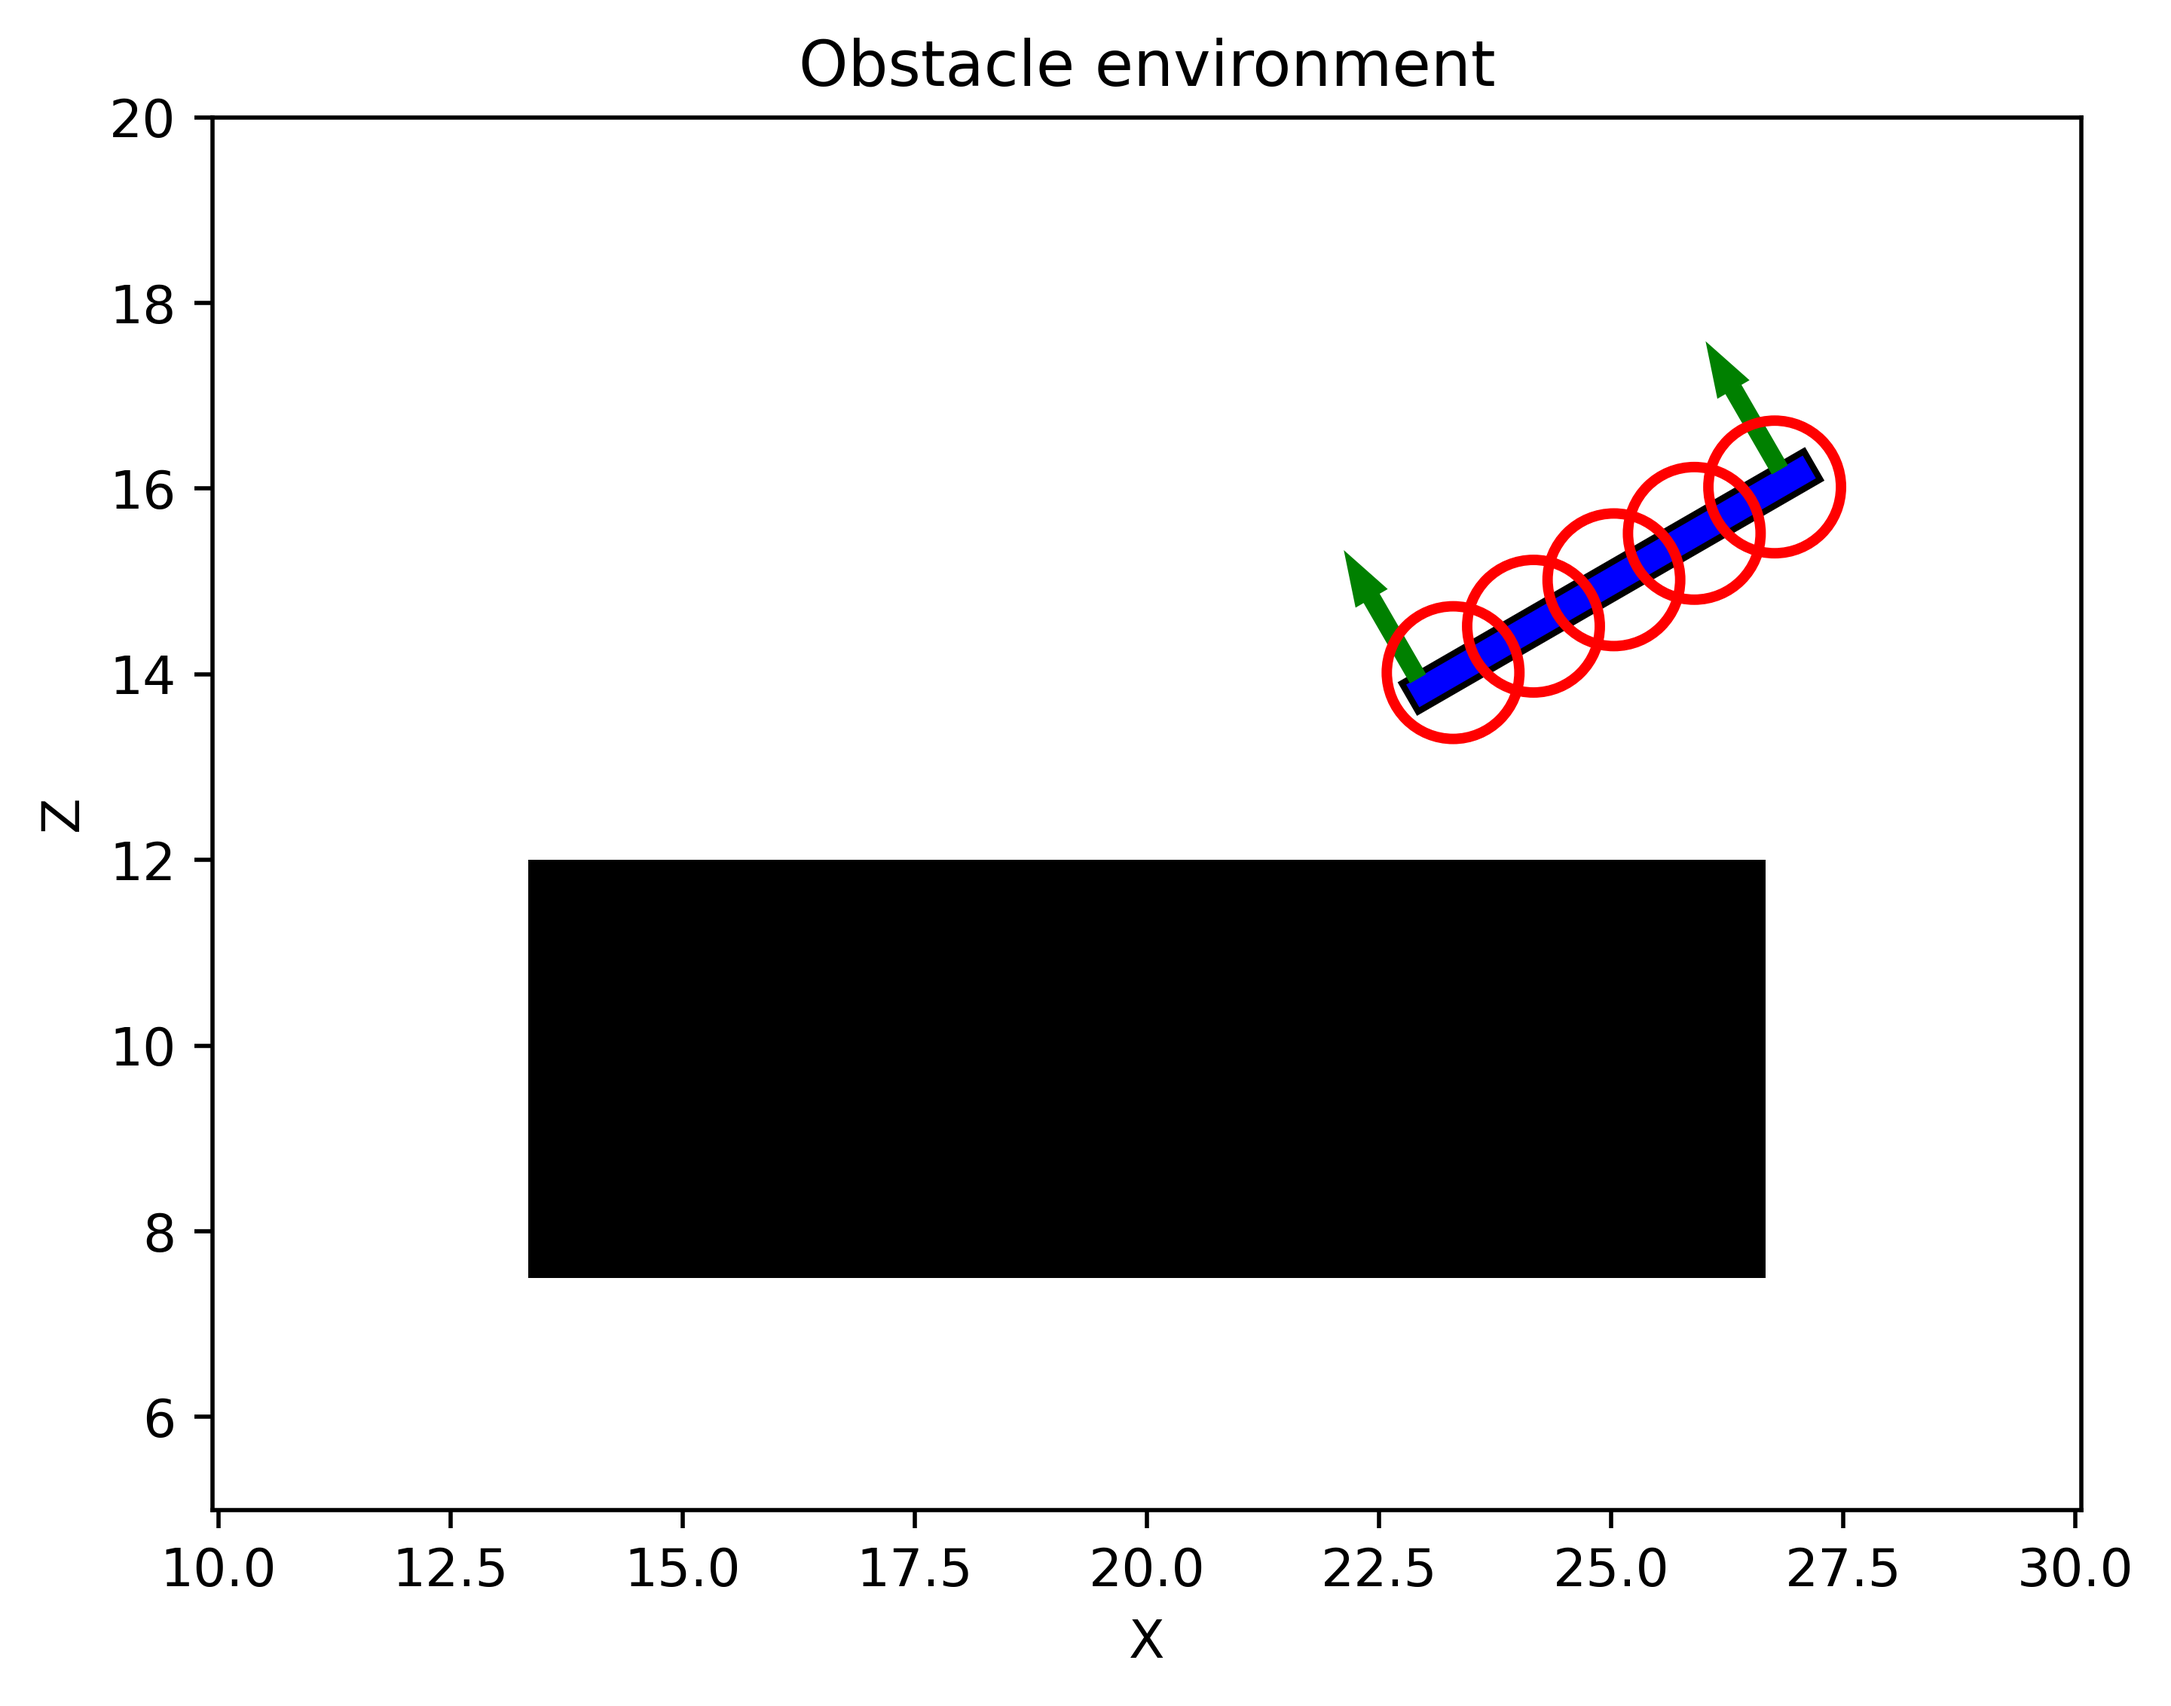
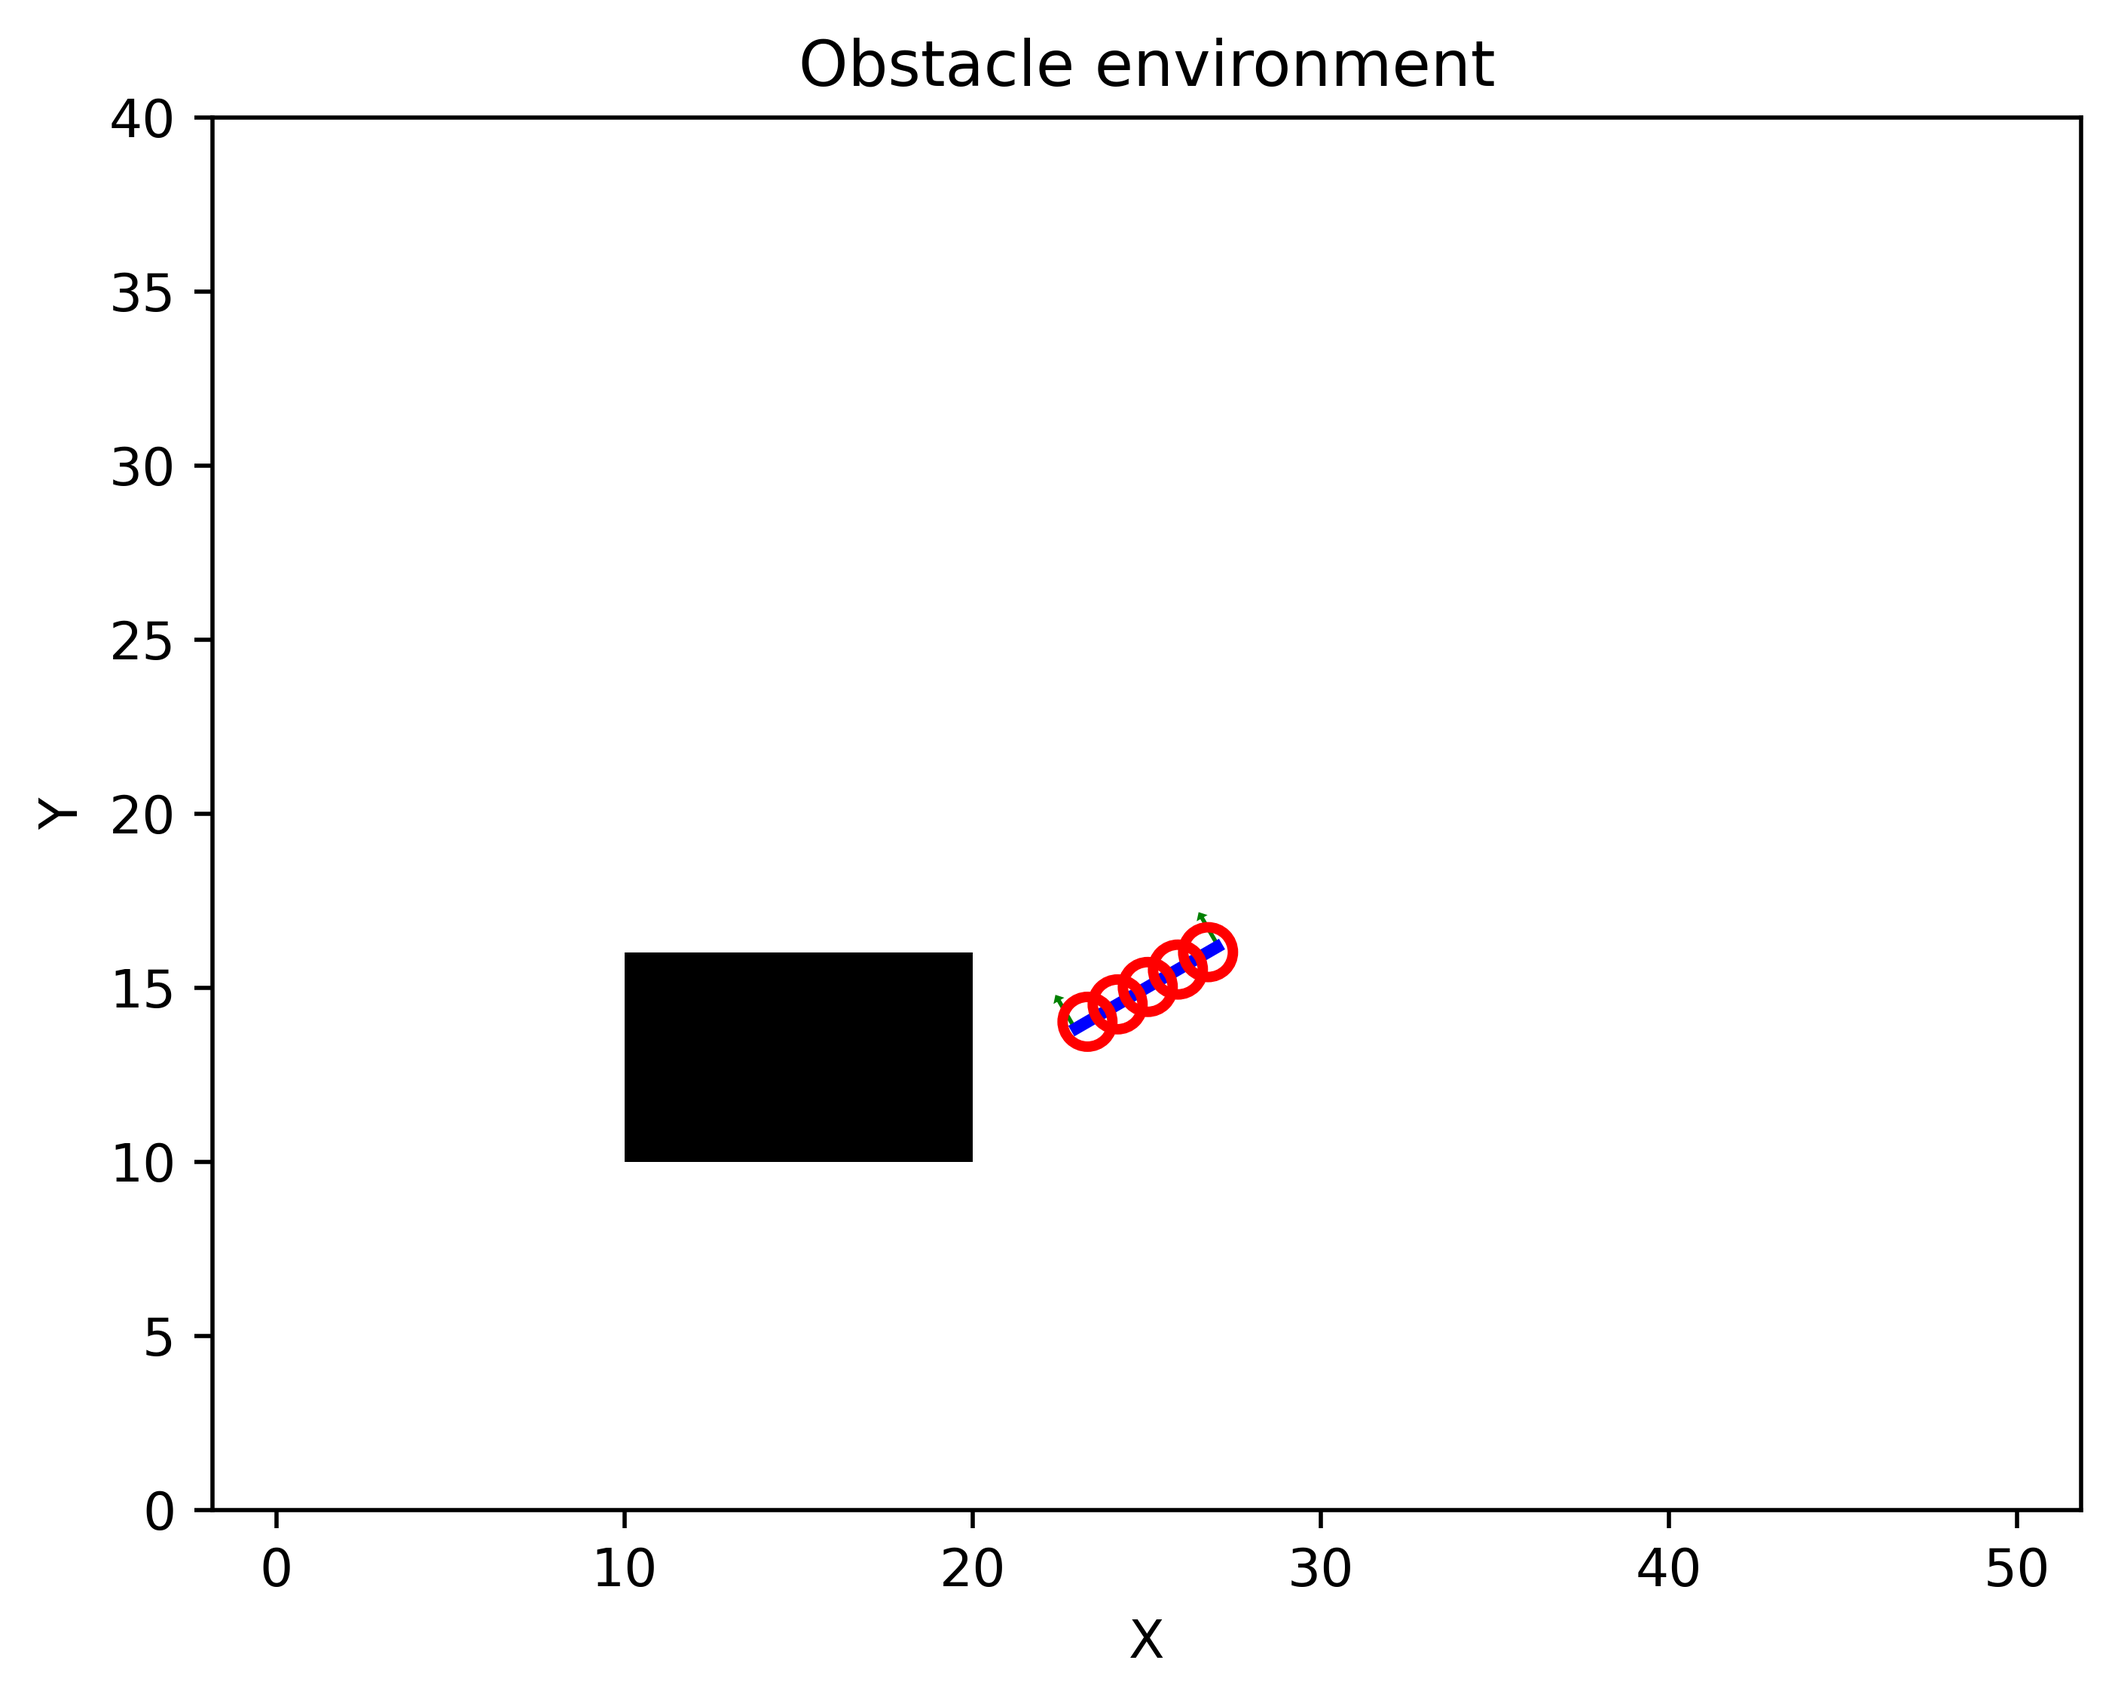
dev

diff --git a/example/draw_planar_quad_sdf.py b/example/draw_planar_quad_sdf.py
@@ -12,6 +12,7 @@ scripts_dir =os.path.abspath(os.path.join(py_dir, 'scripts'))
 sys.path.append(scripts_dir)
 
 from generate_sdf_2d import * 
+from matplotlib.patches import Rectangle, Arrow
 
 # Defines the forward kinematics for collision-checking balls and their gradients to the states.  
 def vec_balls(x, L, n_balls, radius):
@@ -33,66 +34,58 @@ def vec_balls(x, L, n_balls, radius):
     
     return v_pts, v_g_states, v_radius
 
-def draw_quad_balls(x, L, H, fig, ax, rgb='b'):
-    
+def compute_pqud_patches(x, L, H, patch_color='b'):
     center_location = x[0:2]
     theta = x[2]
-    n_balls = 5
-    radius = L/7.0
-    v_pts, _, v_radius = vec_balls(x, L, n_balls, radius)
     
     center1 = center_location[0]
     center2 = center_location[1]
-    R = np.array([[np.cos(theta), -np.sin(theta)], [np.sin(theta), np.cos(theta)]])
-    X = np.array([-L/2, L/2, L/2, -L/2])
-    Y = np.array([-H/2, -H/2, H/2, H/2])
+    R = np.array([[np.cos(theta), -np.sin(theta)], [np.sin(theta), np.cos(theta)]], dtype=np.float64)
+    X = np.array([-L/2, L/2, L/2, -L/2], dtype=np.float64)
+    Y = np.array([-H/2, -H/2, H/2, H/2], dtype=np.float64)
 
-    T = np.zeros((2, 4))
+    T = np.zeros((2, 4), dtype=np.float64)
     for i in range(4):
         T[:, i] = np.dot(R, np.array([X[i], Y[i]]))
 
     x_lower_left = center1 + T[0, 0]
-    x_lower_right = center1 + T[0, 1]
-    x_upper_right = center1 + T[0, 2]
-    x_upper_left = center1 + T[0, 3]
     y_lower_left = center2 + T[1, 0]
-    y_lower_right = center2 + T[1, 1]
-    y_upper_right = center2 + T[1, 2]
-    y_upper_left = center2 + T[1, 3]
-
-    x_coor = [x_lower_left, x_lower_right, x_upper_right, x_upper_left]
-    y_coor = [y_lower_left, y_lower_right, y_upper_right, y_upper_left]
-
-    # fig, ax = plt.subplots()
-    ax.fill(x_coor, y_coor, edgecolor='k', facecolor='b', linewidth=1.2)
+    rect = Rectangle((x_lower_left, y_lower_left), L, H, angle=theta/3.14*180, edgecolor='none', facecolor=patch_color)
     
-    arrow_width = 0.2
-    arrow_properties = dict(facecolor='green', edgecolor='none', width=arrow_width, head_width=0.4)
-
+    arrow_width = 0.1
     # Plot 2 arrows representing the inputs
     # left arrow
     l_arrow_x = center1 - (L-arrow_width)/2*np.cos(theta)
     l_arrow_z = center2 - (L-arrow_width)/2*np.sin(theta) + H/2*np.cos(theta)
-    ax.arrow(l_arrow_x, l_arrow_z, -np.sin(theta), np.cos(theta), **arrow_properties)
+    l_arrow = Arrow(l_arrow_x, l_arrow_z, -np.sin(theta), np.cos(theta), width=0.6, edgecolor='none', facecolor='green')
     
     # right arrow
-    l_arrow_x = center1 + (L-4*arrow_width)/2*np.cos(theta)
-    l_arrow_z = center2 + (L-4*arrow_width)/2*np.sin(theta) + H/2*np.cos(theta)
-    ax.arrow(l_arrow_x, l_arrow_z, -np.sin(theta), np.cos(theta), **arrow_properties)
+    r_arrow_x = center1 + (L-4*arrow_width)/2*np.cos(theta)
+    r_arrow_z = center2 + (L-4*arrow_width)/2*np.sin(theta) + H/2*np.cos(theta)
+    r_arrow = Arrow(r_arrow_x, r_arrow_z, -np.sin(theta), np.cos(theta), width=0.6, edgecolor='none', facecolor='green')
     
-    plt.axis('equal')
+    n_balls = 5
+    radius = L/7.0
+    v_pts, _, v_radius = vec_balls(x, L, n_balls, radius)
+    v_circles = []
     for i in range(n_balls):
-        circle = plt.Circle(v_pts[i], v_radius[i], edgecolor='r', facecolor='none', linewidth=2)
-        ax.add_patch(circle)
+        v_circles.append(plt.Circle(v_pts[i], v_radius[i], edgecolor='r', facecolor='none', linewidth=2))
         
-    plt.xlim([10.0, 30.0])
-    plt.ylim([5.0, 20.0])
+    return rect, l_arrow, r_arrow, v_circles
+
+# @njit
+def draw_quad_balls(x, L, H, fig, ax, draw_ball=True, patch_color='b'):
+    rect, l_arrow, r_arrow, v_circles = compute_pqud_patches(x, L, H, patch_color)
     
-    plt.xlabel('X')
-    plt.ylabel('Z')
+    ax.add_patch(l_arrow)
+    ax.add_patch(r_arrow)
+    ax.add_patch(rect)
     
-    plt.show()
-    
+    if draw_ball:
+        for i in range(len(v_circles)):
+            ax.add_patch(v_circles[i])
+            plt.axis('equal')
+            
     return fig, ax
     
 if __name__ == '__main__':
@@ -101,7 +94,9 @@ if __name__ == '__main__':
     state = np.array([25.0, 15.0, np.pi/6, 0.0, 0.0, 0.0])
     sdf_2d, planarmap = generate_2dsdf("SingleObstacleMap", False)
 
-    fig, ax = planarmap.draw_map()
-    fig, ax = draw_quad_balls(state, L, H, fig, ax, 'b')
+    fig, ax = plt.subplots()
+    
+    fig, ax = planarmap.draw_map(fig, ax, plot=True)
+    fig, ax = draw_quad_balls(state, L, H, fig, ax, True, 'b')
     
     fig.savefig(example_dir+"/example_quad2d.png", dpi=500, bbox_inches='tight')

diff --git a/scripts/generate_sdf_2d.py b/scripts/generate_sdf_2d.py
@@ -65,13 +65,12 @@ class map2d:
     def get_field(self):
         return self._field
     
-    def draw_map(self):    
-        fig, ax = plt.subplots()
+    def draw_map(self, fig, ax, plot=True):    
 
         cmap = plt.cm.colors.ListedColormap(['white', 'black'])
 
         # Create a heatmap
-        im = ax.imshow(self._map, cmap=cmap, interpolation='nearest', origin='lower',
+        ax.imshow(self._map, cmap=cmap, interpolation='nearest', origin='lower',
                    extent=[0, self.map_width*self._cell_size, 0, self.map_height*self._cell_size])
         
         plt.xlabel('X')
@@ -83,7 +82,8 @@ class map2d:
         
         plt.title('Obstacle environment')
         
-        # plt.show()
+        if plot:
+            plt.show()
         
         return fig, ax
     
@@ -102,8 +102,8 @@ class map2d:
     
 def generate_map(map_name, cell_size, save_map=False):
     origin = np.array([0.0, 0.0], dtype=np.float64)
-    width = 400
-    height = 300
+    width = 500
+    height = 400
     
     # map range: (x: [0.0, 50.0]; y: [0.0, 50.0])
     m = map2d(origin, cell_size, width, height)
@@ -130,7 +130,7 @@ def generate_map(map_name, cell_size, save_map=False):
 
 
 def generate_2dsdf(map_name="SingleObstacleMap", savemap=False):
-    origin = np.array([0.0, 0.0], dtype=np.float64)
+    origin = np.array([-5.0, -5.0], dtype=np.float64)
     cell_size = 0.1
     map2d = generate_map(map_name, cell_size, savemap)
     field_data = map2d.get_field()

diff --git a/tests/test_planarsdf.py b/tests/test_planarsdf.py
@@ -20,10 +20,7 @@ import matplotlib.pyplot as plt
 def test_signed_distance():
     # obstacle range: (x: [10.0, 20.0]; y: [10.0, 16.0])
     sdf_2d, planarmap = generate_2dsdf("SingleObstacleMap", False)
-    
-    # fig, ax = planarmap.draw_map()
-    # plt.show()
-    
+        
     # ========== test point: the origin ([0, 0]) ========== 
     nearest_dist = np.sqrt(100.0*100.0+100.0*100.0)*0.1
     atan_gradient = np.arctan2(-10.0, -10.0)

diff --git a/scripts/collision_costs_2d.py b/scripts/collision_costs_2d.py
@@ -20,6 +20,8 @@ def hinge_loss_gradient(dist, eps_obs, slope=1):
     
 # hinge(sdf(pt)), (\par h)/(\par pt)
 def hingesdfloss_gradient(pt, sdf_2d, eps_obs, slope=1):
+    # print("pt")
+    # print(pt)
     dist, g_sdf = sdf_2d.getSignedDistance(pt), sdf_2d.getGradient(pt)    
     h, g_h = hinge_loss_gradient(dist, eps_obs, slope)
     return h, g_h*g_sdf
